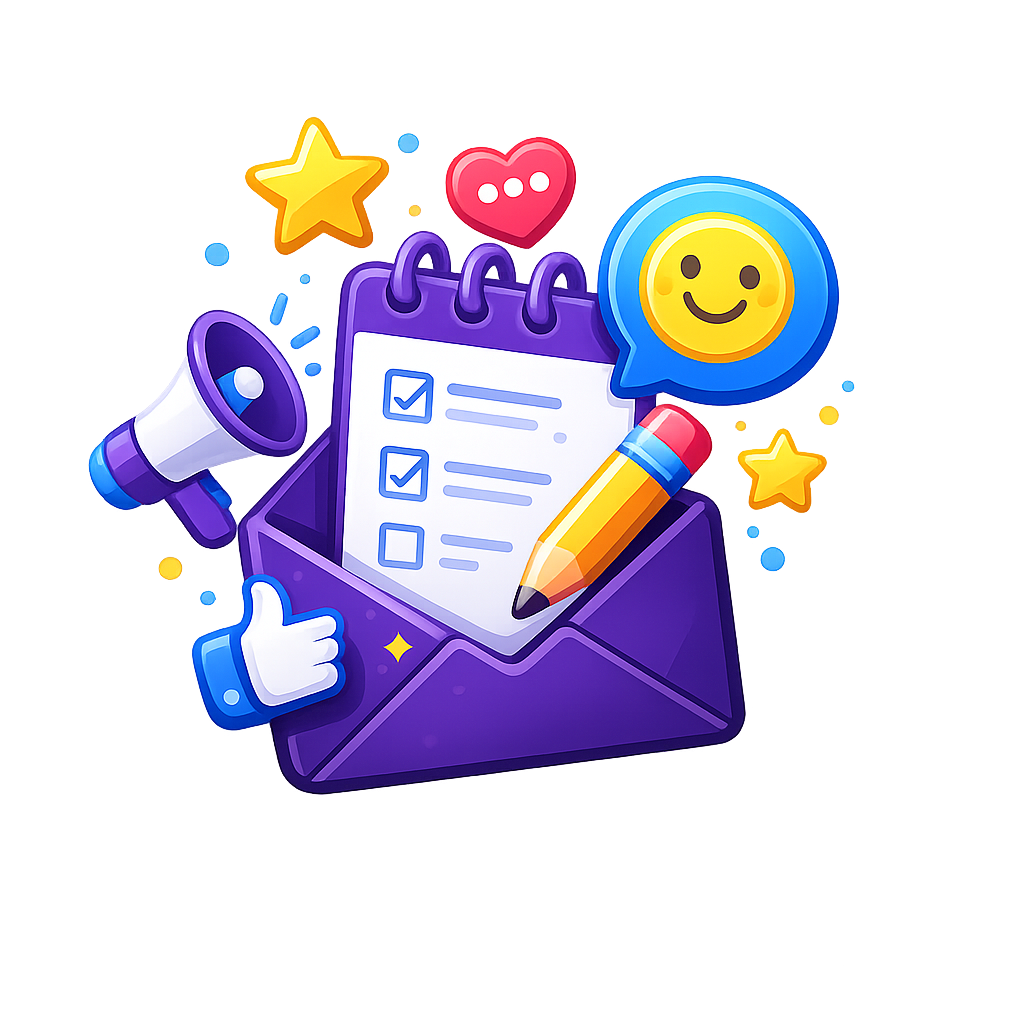
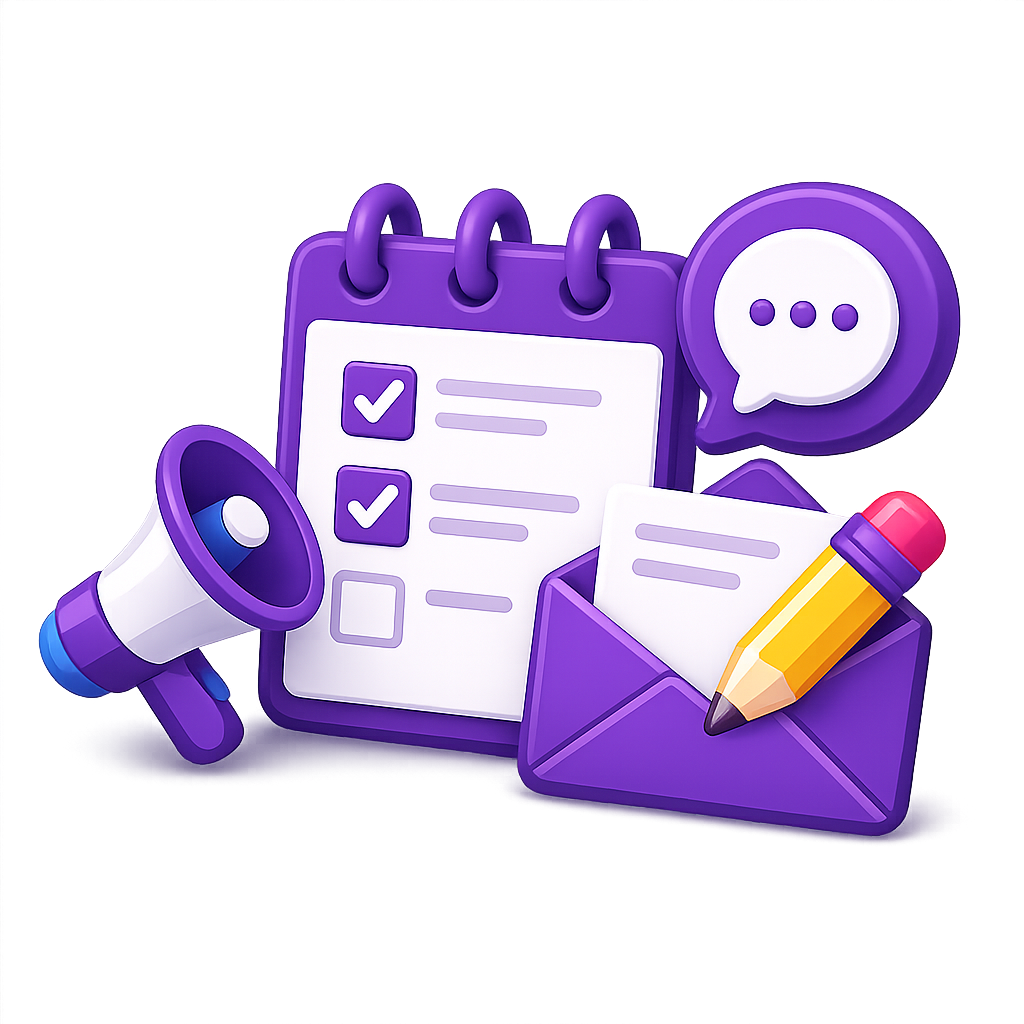
saran masukan

diff --git a/src/components/home/ServiceMenuGrid.jsx b/src/components/home/ServiceMenuGrid.jsx
@@ -7,7 +7,7 @@ const MENU_ITEMS = [
   { id: 'daftar-paket', image: '/images/customer_home/daftarkan_paket.png', label: 'Daftarkan\nPaket', path: '/daftar-paket' },
   { id: 'lokasi-gerai', image: '/images/customer_home/lokasi_gerai.png', label: 'Lokasi Gerai', path: '/gerai' },
   { id: 'kemitraan', image: '/images/customer_home/kemitraan.png', label: 'Kemitraan', path: '/kemitraan' },
-  { id: 'saran-masukan', image: '/images/customer_home/saran_masukan.png', label: 'Saran &\nMasukan', path: '/saran-masukan', imageClass: 'h-[82px] w-[82px] -right-4 -bottom-5' },
+  { id: 'saran-masukan', image: '/images/customer_home/saran_masukan.png', label: 'Saran &\nMasukan', path: '/saran-masukan' },
   { id: 'jadwal-kapal', image: '/images/customer_home/jadwal_kapal.png', label: 'Jadwal\nKapal', path: '/jadwal' },
   { id: 'bantuan', image: '/images/customer_home/bantuan.png', label: 'Bantuan', path: '/bantuan' },
 ];
